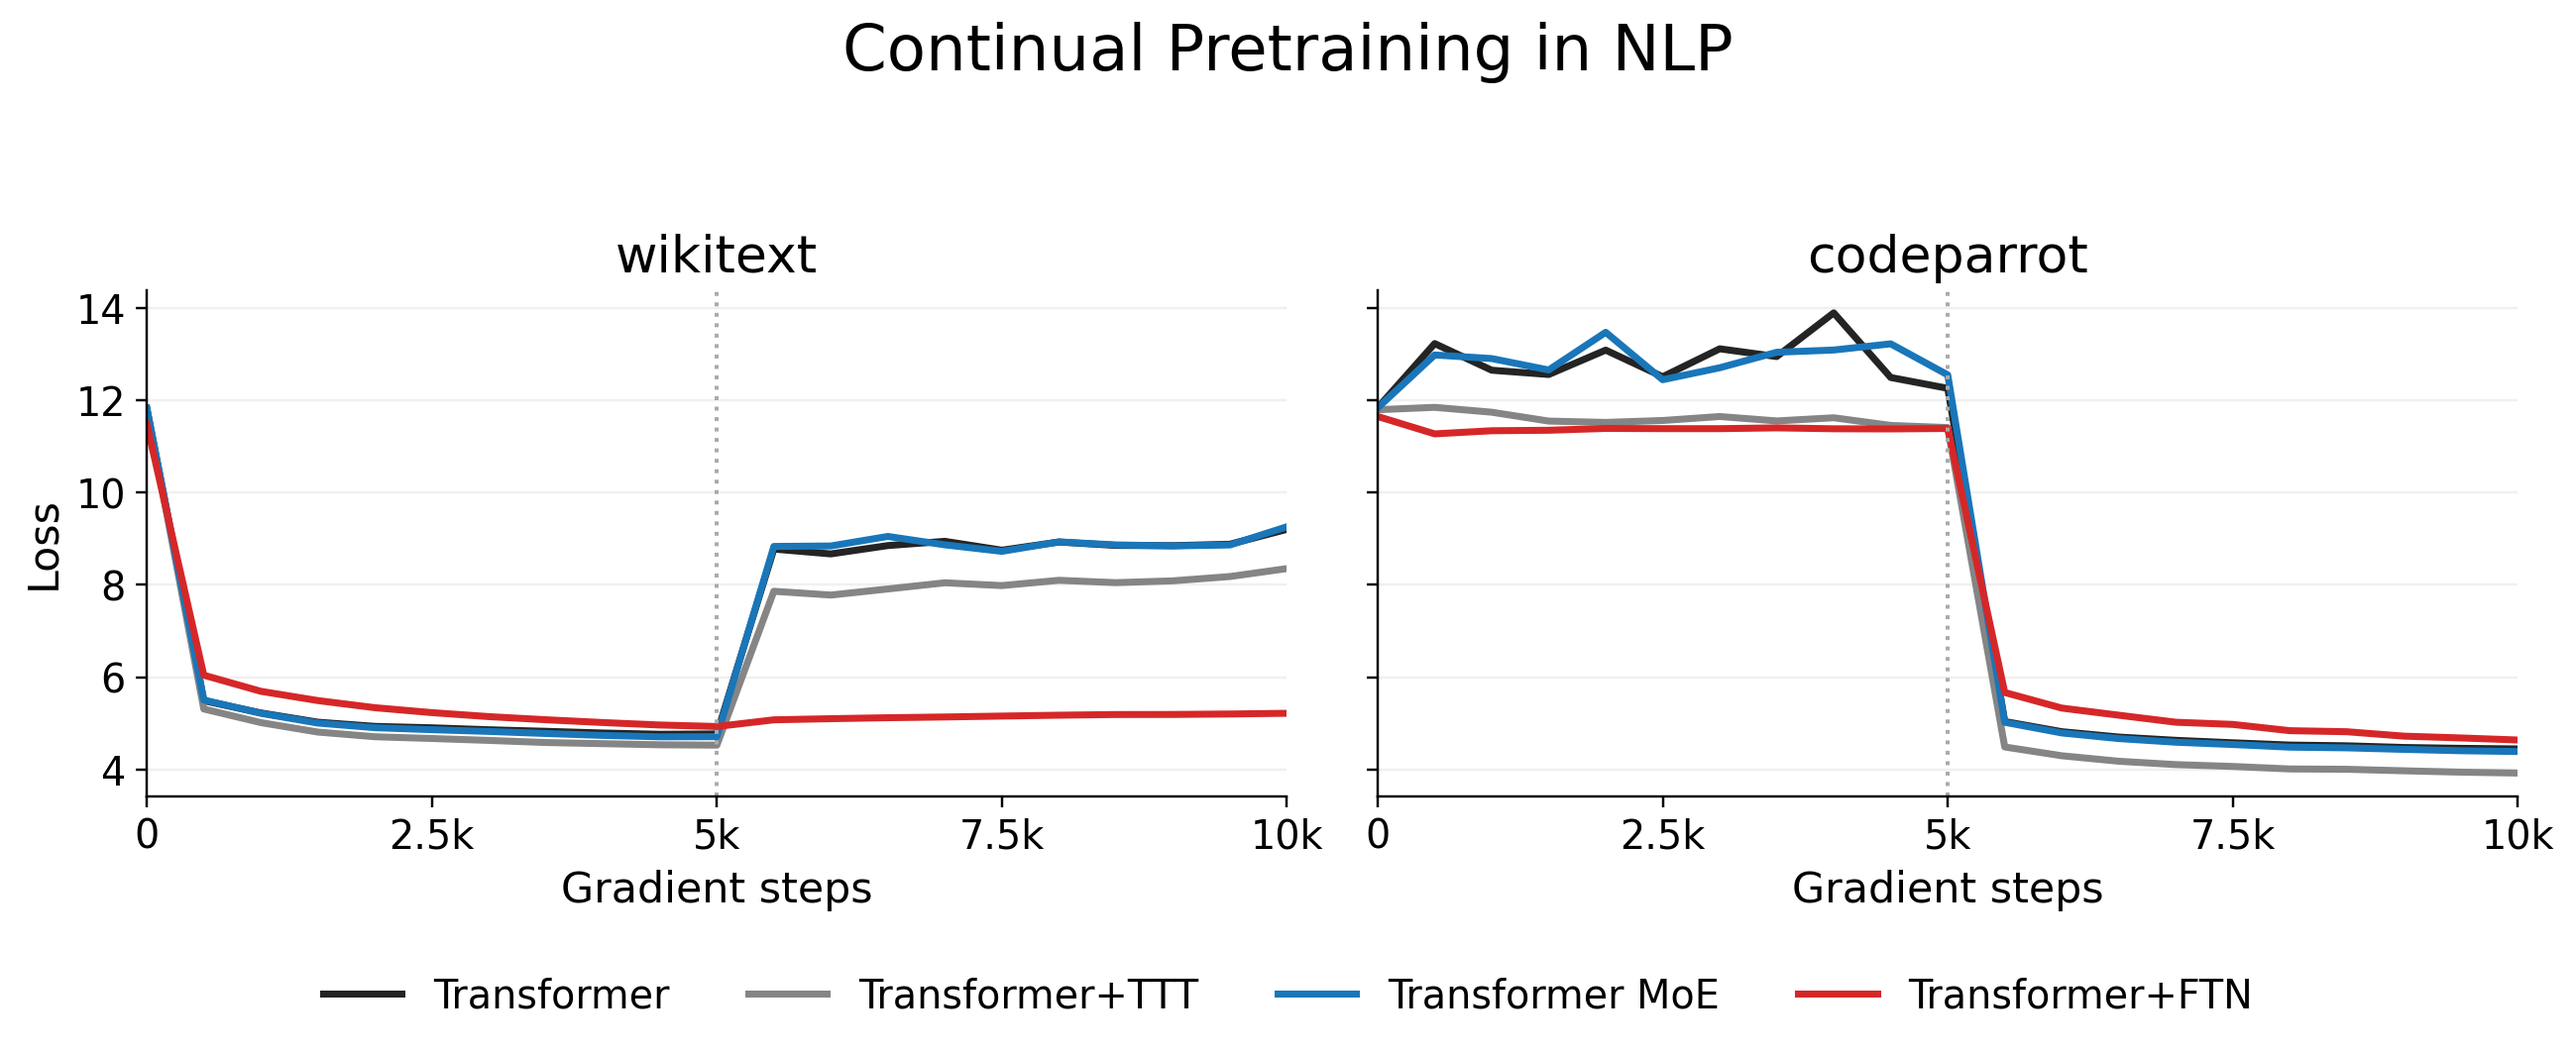
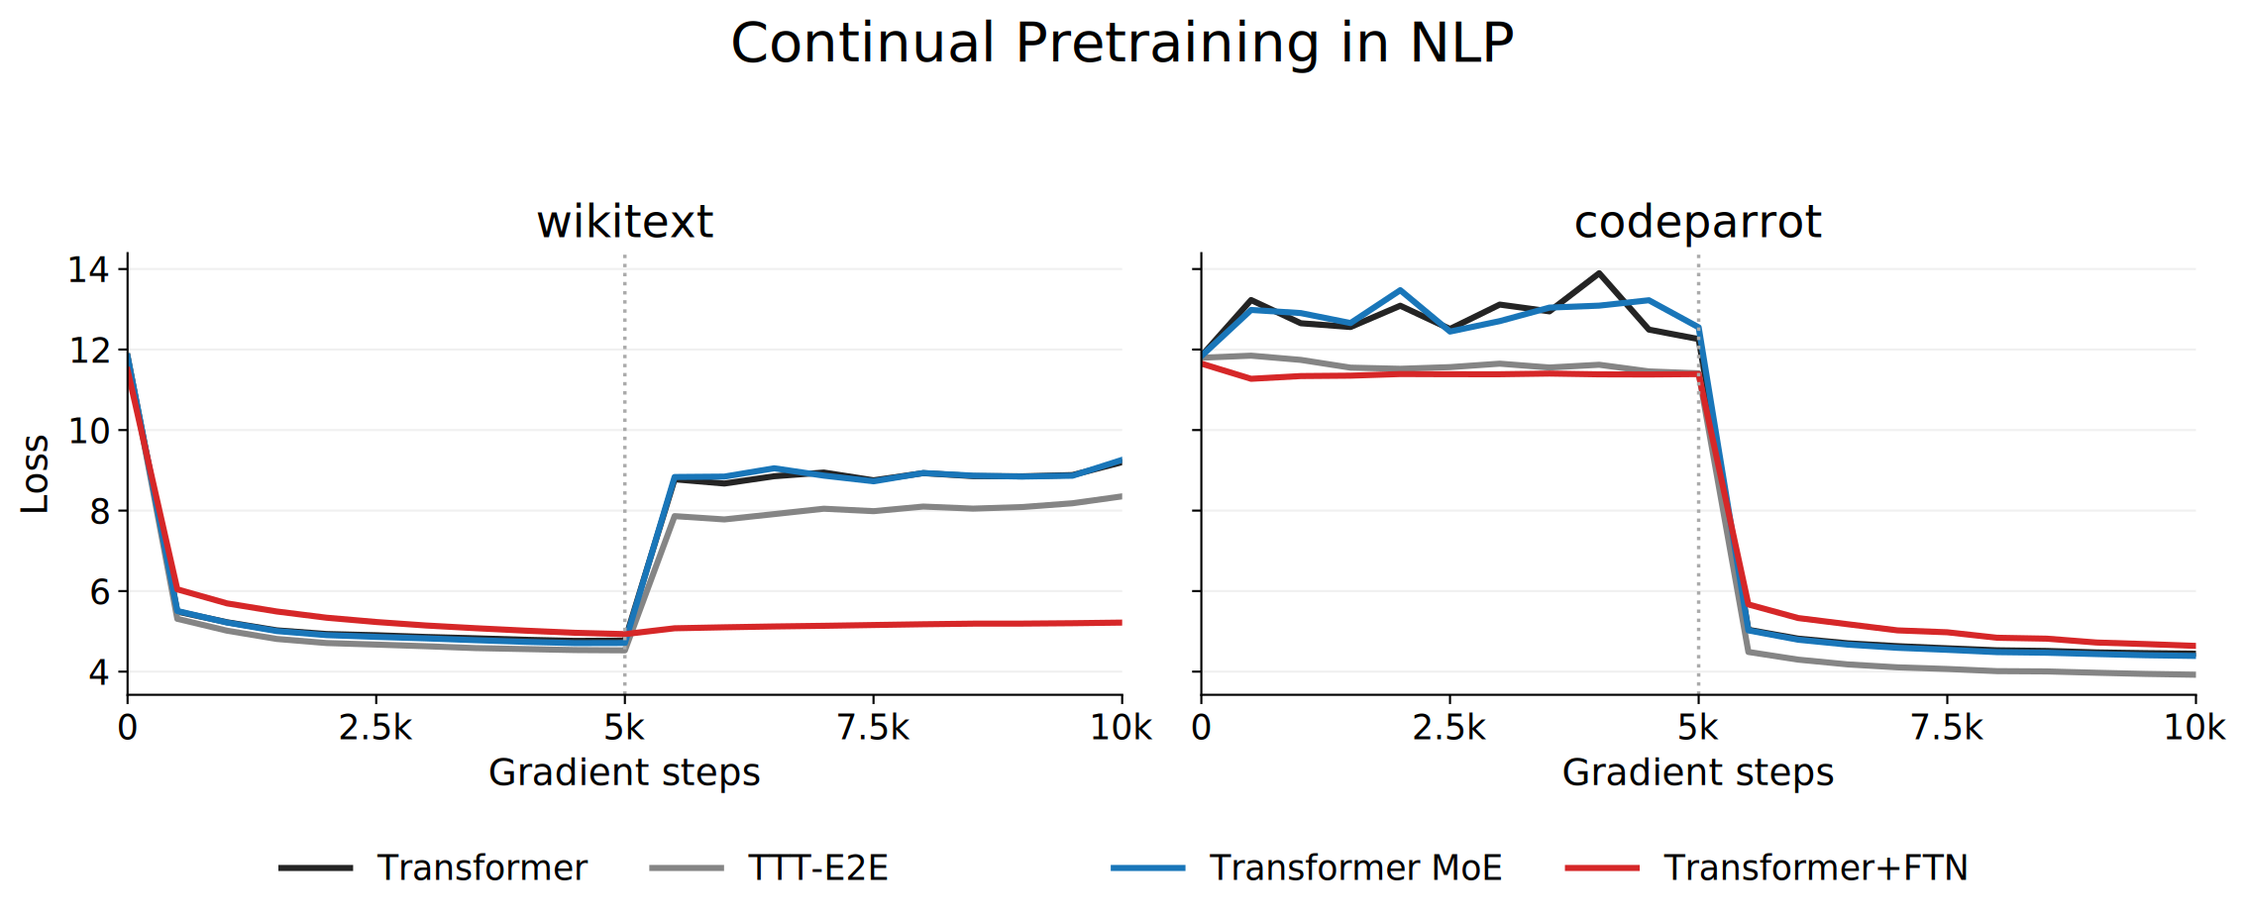
Correct continual-pretraining baseline name to TTT-E2E

diff --git a/projects-chatftn.html b/projects-chatftn.html
@@ -15,7 +15,7 @@
 <body>
 <a class="skip" href="#main">Skip to content</a>
 <header><a aria-label="Nascent AGI home" class="wordmark" href="index.html"> Nascent <b>AGI</b></a><button aria-controls="nav" aria-expanded="false" class="menu-toggle" id="menu-toggle">Menu <span>＋</span></button><nav aria-label="Main navigation" id="nav"><a class="" href="index.html">Proposal</a><a aria-current="page" class="active" href="projects.html">Results</a></nav><span class="header-note"><i></i> Research in progress</span></header>
-<main class="fade-in" id="main" tabindex="-1"><div class="wrap"><article class="project-detail"><div class="breadcrumb"><a href="projects.html">Results</a> / ChatFTN: Continual Post-training of Expert Domain Knowledge</div><h1>ChatFTN: Continual Post-training of Expert Domain Knowledge</h1><p class="project-intro"></p><div class="project-story"><p>I applied Functional Task Networks (FTN) of Low-Rank Adapters (LoRA), or FTN-LoRA, to post train a language model on different parts of my codebase, one project after another: <strong>CSCG, a Sudoku solver, FTN robotics, and genetic programming</strong>. Low-rank adapters form a shared population of trainable components, allowing each knowledge domain to recruit its own overlapping neural assembly.</p><div class="chat-domain-grid"><figure class="result-figure"><h3>CSCG</h3><a aria-label="Enlarge: CSCG question, answer, and active neural assembly" href="media/ff8b8db01c41-2.png" rel="noopener" target="_blank"><img alt="CSCG question, answer, and active neural assembly" loading="lazy" src="media/ff8b8db01c41-2.png"/></a><figcaption>Red: learned representations and planning.</figcaption></figure><figure class="result-figure"><h3>Sudoku</h3><a aria-label="Enlarge: Sudoku question, answer, and active neural assembly" href="media/875937f58c30-3.png" rel="noopener" target="_blank"><img alt="Sudoku question, answer, and active neural assembly" loading="lazy" src="media/875937f58c30-3.png"/></a><figcaption>Green: the JAX Sudoku solver.</figcaption></figure><figure class="result-figure"><h3>FTN robotics</h3><a aria-label="Enlarge: FTN robotics question, answer, and active neural assembly" href="media/8a3b8b24ea50-0.png" rel="noopener" target="_blank"><img alt="FTN robotics question, answer, and active neural assembly" loading="lazy" src="media/8a3b8b24ea50-0.png"/></a><figcaption>Blue: robotic control and reinforcement learning.</figcaption></figure><figure class="result-figure"><h3>Genetic programming</h3><a aria-label="Enlarge: Genetic programming question, answer, and active neural assembly" href="media/f200a108db9e-1.png" rel="noopener" target="_blank"><img alt="Genetic programming question, answer, and active neural assembly" loading="lazy" src="media/f200a108db9e-1.png"/></a><figcaption>Yellow: evolutionary program search in JAX.</figcaption></figure></div><p>These four views come from the ChatFTN applet. When I ask about a different project, the model activates the trained <strong>neural correlates of that project</strong> and uses them to answer. The colors identify the knowledge domains; the bright regions show the active assembly, and mixed colors indicate components shared between domains. Click a thumbnail to read the conversation and inspect the corresponding activity.</p><h2>Learning new material without losing the old</h2><p>In a separate continual-pretraining experiment, I compared Transformer+FTN against a standard Transformer, Transformer+TTT (test-time training), and a mixture-of-experts Transformer (MoE). Each model trains for <strong>5,000 updates on WikiText, followed by 5,000 on CodeParrot</strong>—a shift from natural-language articles to Python code. The MoE baseline matches FTN’s total trainable and active parameter budgets to within 0.1%.</p><figure class="result-figure"><a aria-label="Enlarge: WikiText and CodeParrot validation loss during sequential training for Transformer, TTT, MoE, and FTN" href="media/d4b94f740537-continual_pretraining_nlp_moe.png" rel="noopener" target="_blank"><img alt="WikiText and CodeParrot validation loss during sequential training for Transformer, TTT, MoE, and FTN" loading="lazy" src="media/d4b94f740537-continual_pretraining_nlp_moe.png"/></a><figcaption>Lower loss is better. The dotted line marks the switch to CodeParrot. FTN is red; MoE blue; TTT gray; the standard Transformer black.</figcaption></figure><p>The left panel measures retention. After training switches to code, the standard Transformer and MoE lose much of what they learned from WikiText; TTT reduces that loss, while <strong>FTN nearly eliminates forgetting</strong>. The right panel shows that FTN still learns the new code domain. Before code training begins, FTN also has a better starting point than the standard Transformer or MoE, similar to the benefit seen with TTT.</p><p class="result-source">The FTN curve is the original replay-free run, evaluated with its repaired input-conditioned mask. <a href="media/630bcbcd143c-continual_pretraining_nlp_moe.svg" rel="noopener" target="_blank">Vector figure</a> · <a href="media/e3bf8137f21d-continual_pretraining_nlp_moe.pdf" rel="noopener" target="_blank">PDF</a></p><p>Applications of FTN to language models are ongoing, and these results are preliminary. The aim is a model that can keep acquiring specialist knowledge while retaining and recovering what it has already learned.</p></div></article></div></main>
+<main class="fade-in" id="main" tabindex="-1"><div class="wrap"><article class="project-detail"><div class="breadcrumb"><a href="projects.html">Results</a> / ChatFTN: Continual Post-training of Expert Domain Knowledge</div><h1>ChatFTN: Continual Post-training of Expert Domain Knowledge</h1><p class="project-intro"></p><div class="project-story"><p>I applied Functional Task Networks (FTN) of Low-Rank Adapters (LoRA), or FTN-LoRA, to post train a language model on different parts of my codebase, one project after another: <strong>CSCG, a Sudoku solver, FTN robotics, and genetic programming</strong>. Low-rank adapters form a shared population of trainable components, allowing each knowledge domain to recruit its own overlapping neural assembly.</p><div class="chat-domain-grid"><figure class="result-figure"><h3>CSCG</h3><a aria-label="Enlarge: CSCG question, answer, and active neural assembly" href="media/ff8b8db01c41-2.png" rel="noopener" target="_blank"><img alt="CSCG question, answer, and active neural assembly" loading="lazy" src="media/ff8b8db01c41-2.png"/></a><figcaption>Red: learned representations and planning.</figcaption></figure><figure class="result-figure"><h3>Sudoku</h3><a aria-label="Enlarge: Sudoku question, answer, and active neural assembly" href="media/875937f58c30-3.png" rel="noopener" target="_blank"><img alt="Sudoku question, answer, and active neural assembly" loading="lazy" src="media/875937f58c30-3.png"/></a><figcaption>Green: the JAX Sudoku solver.</figcaption></figure><figure class="result-figure"><h3>FTN robotics</h3><a aria-label="Enlarge: FTN robotics question, answer, and active neural assembly" href="media/8a3b8b24ea50-0.png" rel="noopener" target="_blank"><img alt="FTN robotics question, answer, and active neural assembly" loading="lazy" src="media/8a3b8b24ea50-0.png"/></a><figcaption>Blue: robotic control and reinforcement learning.</figcaption></figure><figure class="result-figure"><h3>Genetic programming</h3><a aria-label="Enlarge: Genetic programming question, answer, and active neural assembly" href="media/f200a108db9e-1.png" rel="noopener" target="_blank"><img alt="Genetic programming question, answer, and active neural assembly" loading="lazy" src="media/f200a108db9e-1.png"/></a><figcaption>Yellow: evolutionary program search in JAX.</figcaption></figure></div><p>These four views come from the ChatFTN applet. When I ask about a different project, the model activates the trained <strong>neural correlates of that project</strong> and uses them to answer. The colors identify the knowledge domains; the bright regions show the active assembly, and mixed colors indicate components shared between domains. Click a thumbnail to read the conversation and inspect the corresponding activity.</p><h2>Learning new material without losing the old</h2><p>In a separate continual-pretraining experiment, I compared Transformer+FTN against a standard Transformer, TTT-E2E (test-time training), and a mixture-of-experts Transformer (MoE). Each model trains for <strong>5,000 updates on WikiText, followed by 5,000 on CodeParrot</strong>—a shift from natural-language articles to Python code. The MoE baseline matches FTN’s total trainable and active parameter budgets to within 0.1%.</p><figure class="result-figure"><a aria-label="Enlarge: WikiText and CodeParrot validation loss during sequential training for Transformer, TTT-E2E, MoE, and FTN" href="media/d4b94f740537-continual_pretraining_nlp_moe.png" rel="noopener" target="_blank"><img alt="WikiText and CodeParrot validation loss during sequential training for Transformer, TTT-E2E, MoE, and FTN" loading="lazy" src="media/d4b94f740537-continual_pretraining_nlp_moe.png"/></a><figcaption>Lower loss is better. The dotted line marks the switch to CodeParrot. FTN is red; MoE blue; TTT-E2E gray; the standard Transformer black.</figcaption></figure><p>The left panel measures retention. After training switches to code, the standard Transformer and MoE lose much of what they learned from WikiText; TTT-E2E reduces that loss, while <strong>FTN nearly eliminates forgetting</strong>. The right panel shows that FTN still learns the new code domain. Before code training begins, FTN also has a better starting point than the standard Transformer or MoE, similar to the benefit seen with TTT-E2E.</p><p class="result-source">The FTN curve is the original replay-free run, evaluated with its repaired input-conditioned mask. <a href="media/630bcbcd143c-continual_pretraining_nlp_moe.svg" rel="noopener" target="_blank">Vector figure</a> · <a href="media/e3bf8137f21d-continual_pretraining_nlp_moe.pdf" rel="noopener" target="_blank">PDF</a></p><p>Applications of FTN to language models are ongoing, and these results are preliminary. The aim is a model that can keep acquiring specialist knowledge while retaining and recovering what it has already learned.</p></div></article></div></main>
 <footer><a class="wordmark" href="index.html">Nascent <b>AGI</b></a><span>Naturalistic autonomy, emergent capabilities.</span><span>Independent research · 2026</span></footer>
 <dialog aria-label="Image viewer" id="lightbox"><button aria-label="Close image" class="close">×</button><img alt=""/><div class="lightbox-navigation" hidden=""><button aria-label="Previous image" class="previous" type="button">←</button><span aria-live="polite" class="image-count"></span><button aria-label="Next image" class="next" type="button">→</button></div><p></p></dialog>
 </body></html>

diff --git a/index.html b/index.html
@@ -183,13 +183,13 @@ With FTN, new tasks can flow through the network without any identifying labels,
 Generative modeling - <a href="projects-chatftn.html">transformers</a>, <a href="projects-diffusion.html">diffusion</a>, all state-of-the-art techniques are applicable.
 By making each neuron in FTN a Low Rank Adapter (LoRA), any weight matrices from any model can be turned into an autonomously recombinant population.
 I demonstrate this in two cases: continual pre-and-post-training of LLMs and continual post-training of a generative image Diffusion Transformer.</p>
-<p>To test continual LLM pretraining, I compared Transformer+FTN against a standard Transformer, Transformer+TTT, and Transformer MoE over 5,000 WikiText updates followed by 5,000 CodeParrot updates.
+<p>To test continual LLM pretraining, I compared Transformer+FTN against a standard Transformer, TTT-E2E, and Transformer MoE over 5,000 WikiText updates followed by 5,000 CodeParrot updates.
 The MoE and FTN models were parameter matched on both active and total parameters.
 The FTN curve shows the replay-free run evaluated with its repaired input-conditioned mask.
 As with the other application domains, forgetting is nearly eliminated here.
-FTN also shows a better head-start than the Transformer or MoE, similar in effect to TTT's adaptation, prior to training codeparrot.</p>
+FTN also shows a better head-start than the Transformer or MoE, similar in effect to TTT-E2E's adaptation, prior to training codeparrot.</p>
 <figure class="result-figure">
-<a href="media/d4b94f740537-continual_pretraining_nlp_moe.png" rel="noopener" target="_blank"><img alt="Continual pretraining: Transformer, Transformer+TTT, Transformer MoE in blue, and Transformer+FTN in red" loading="lazy" src="media/d4b94f740537-continual_pretraining_nlp_moe.png"/></a>
+<a href="media/d4b94f740537-continual_pretraining_nlp_moe.png" rel="noopener" target="_blank"><img alt="Continual pretraining: Transformer, TTT-E2E, Transformer MoE in blue, and Transformer+FTN in red" loading="lazy" src="media/d4b94f740537-continual_pretraining_nlp_moe.png"/></a>
 <figcaption>Validation loss during 5k WikiText / 5k CodeParrot sequential training. Transformer+FTN is the original replay-free run; the corrected-optimizer rerun is still in progress.</figcaption>
 </figure>
 <p>The results in image generation with Diffusion Transformers are also very encouraging.
@@ -243,7 +243,7 @@ Subsequent work just makes its job easier and faster, including improvements to 
 </li>
 <li class="timeline-present">
 <div class="timeline-date">October 2026 <span>Present</span></div>
-<div class="timeline-content"><p>Milestones:</p><ul><li>Scalable variational-Bayes FTN formulation: Image Diffusion, LLMs</li><li>M2E beats Plan2Explore on Globo</li><li>FTN beats TTT on continual learning</li></ul></div>
+<div class="timeline-content"><p>Milestones:</p><ul><li>Scalable variational-Bayes FTN formulation: Image Diffusion, LLMs</li><li>M2E beats Plan2Explore on Globo</li><li>FTN beats TTT-E2E on continual learning</li></ul></div>
 </li>
 </ol>
 <ol aria-label="Foundations" class="research-timeline">
